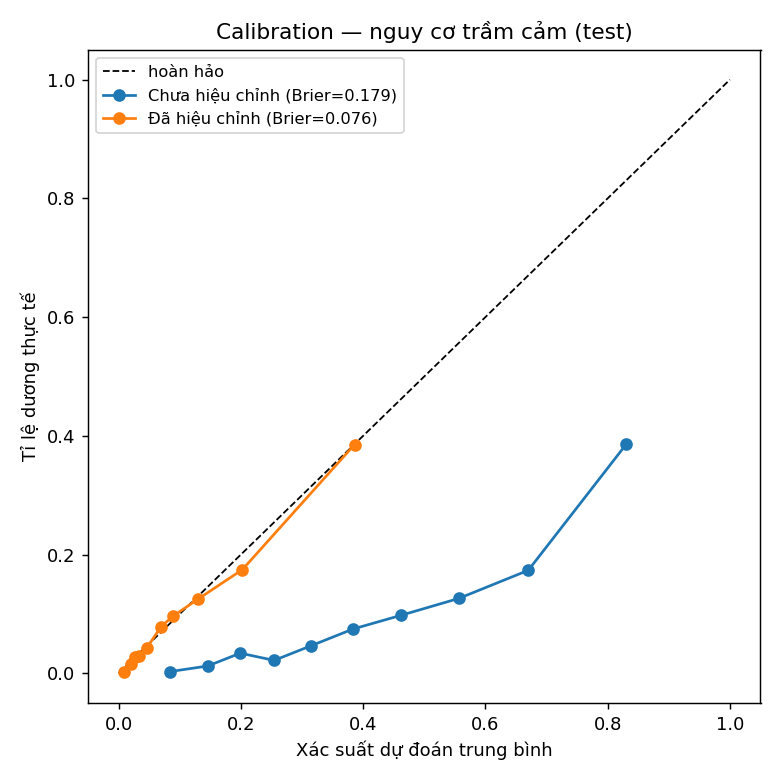
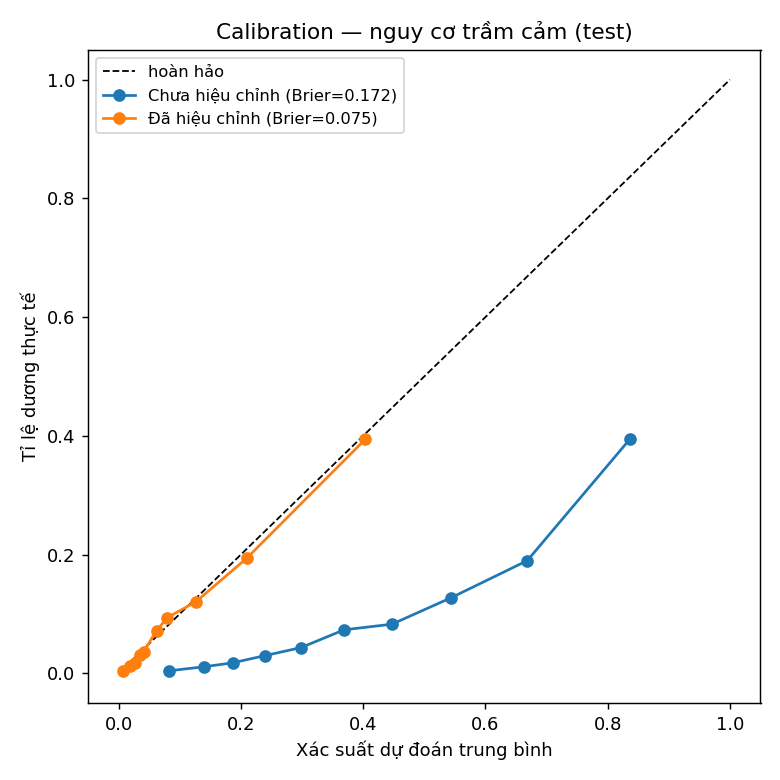
Re-tune model on enriched social features: test AUC 0.806->0.819

diff --git a/README.md b/README.md
@@ -181,15 +181,16 @@ từ nhân khẩu + lối sống (`src/nhanes_model.py`), đánh giá theo 2 cá
 Tách **train 60% / valid 20% / test 20%** (chống rò rỉ): tinh chỉnh siêu tham số trên train,
 **chọn ngưỡng trên valid**, báo cáo trên test.
 
-- **(3) Tuning** (RandomizedSearchCV): XGBoost thắng (CV-AUC 0.794) → test AUC **0.806**.
+- **(3) Tuning** (RandomizedSearchCV): XGBoost thắng (CV-AUC 0.807) → test AUC **0.819**
+  (tăng từ 0.806 nhờ thêm yếu tố xã hội).
 - **(2) Calibration** (isotonic): xác suất đầu ra khớp tỉ lệ thực (Brier thấp hơn).
 - **(1) Chọn ngưỡng** — bài học then chốt cho sàng lọc:
 
 | Ngưỡng | Recall | Precision | % bị gắn cờ |
 |--------|:---:|:---:|:---:|
-| Mặc định 0.5 | **0.09** ❌ | 0.50 | 2% |
-| Youden (0.08) | 0.80 | 0.20 | 39% |
-| Recall ≥ 0.80 (0.08) | 0.81 | 0.19 | 42% |
+| Mặc định 0.5 | **0.11** ❌ | 0.52 | 2% |
+| Youden (0.075) | 0.78 | 0.21 | 36% |
+| Recall ≥ 0.80 (0.071) | 0.84 | 0.20 | 41% |
 
 → Ngưỡng 0.5 **bỏ sót 91% ca** với dữ liệu lệch ~10%; ngưỡng sàng lọc bắt ~80% ca,
 đổi lại cần theo dõi ~40% số người. Đây là đánh đổi đặc trưng của công cụ sàng lọc.
